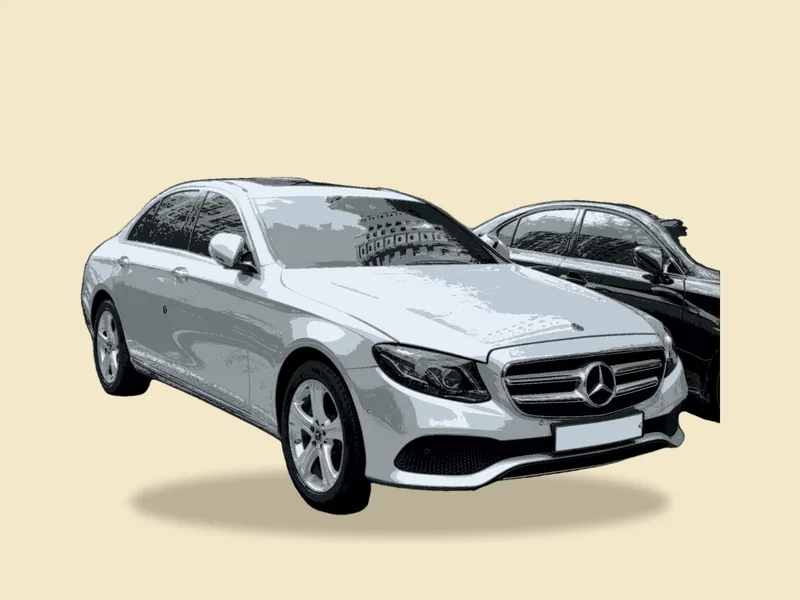
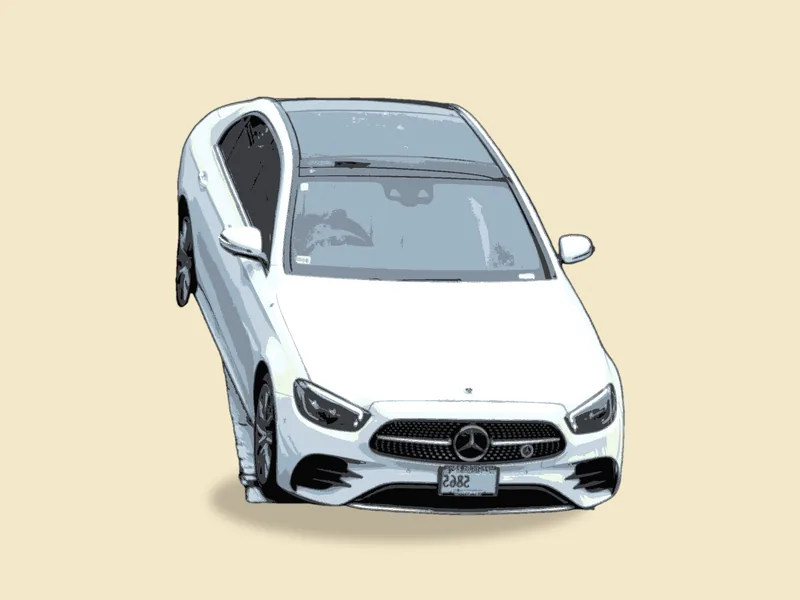
Re-source thirteen cards whose photograph showed more than the car
The illustrations came out wrong because of what was in the photographs, not
how they were processed: a second car merged into the subject, a museum
plinth, a sign on the roof, a bed or a tail running off the frame edge, a
pose unlike every other card. Erosion cannot separate two cars that
genuinely overlap, so each of these needed a better photograph rather than
a constant.

Every replacement shows one car, complete, isolated and facing the way the
track runs, and each was rendered to a scratch directory and looked at
before it was written here. The folder is 3,436,398 bytes across 126 files,
slightly smaller than before.

diff --git a/public/art/CREDITS.md b/public/art/CREDITS.md
@@ -21,12 +21,12 @@ photographers.
 | bmw-m8-competition | BMW M8 Competition | [BMW M8 Competition (F92) Greater Toronto Area, Canada (1).jpg](https://commons.wikimedia.org/wiki/File%3ABMW%20M8%20Competition%20%28F92%29%20Greater%20Toronto%20Area%2C%20Canada%20%281%29.jpg) | OWS Photography | [CC BY 4.0](https://creativecommons.org/licenses/by/4.0) |
 | bmw-x5-m | BMW X5 M | [BMW X5M (F95) Washington DC Metro Area, USA (1).jpg](https://commons.wikimedia.org/wiki/File%3ABMW%20X5M%20%28F95%29%20Washington%20DC%20Metro%20Area%2C%20USA%20%281%29.jpg) | OWS Photography | [CC BY 4.0](https://creativecommons.org/licenses/by/4.0) |
 | bmw-z4-m40i | BMW Z4 M40i | [BMW G29 1X7A1570.jpg](https://commons.wikimedia.org/wiki/File%3ABMW%20G29%201X7A1570.jpg) | Alexander-93 | [CC BY-SA 4.0](https://creativecommons.org/licenses/by-sa/4.0) |
-| bugatti-chiron | Bugatti Chiron | [Bugatti Chiron 2017.jpg](https://commons.wikimedia.org/wiki/File%3ABugatti%20Chiron%202017.jpg) | MrWalkr | [CC BY-SA 4.0](https://creativecommons.org/licenses/by-sa/4.0) |
-| cadillac-ct5-v | Cadillac CT5-V | [2021 Cadillac CT5-V, Front Right 2, 11-21-2021.jpg](https://commons.wikimedia.org/wiki/File%3A2021%20Cadillac%20CT5-V%2C%20Front%20Right%202%2C%2011-21-2021.jpg) | Elise240SX | [CC BY-SA 4.0](https://creativecommons.org/licenses/by-sa/4.0) |
+| bugatti-chiron | Bugatti Chiron | [Bugatti Chiron LC.jpg](https://commons.wikimedia.org/wiki/File%3ABugatti%20Chiron%20LC.jpg) | MrWalkr | [CC BY-SA 4.0](https://creativecommons.org/licenses/by-sa/4.0) |
+| cadillac-ct5-v | Cadillac CT5-V | [25 Cadillac CT5-V Base.jpg](https://commons.wikimedia.org/wiki/File%3A25%20Cadillac%20CT5-V%20Base.jpg) | HJUdall | [CC0](http://creativecommons.org/publicdomain/zero/1.0/deed.en) |
 | cadillac-escalade | Cadillac Escalade | [2021 Cadillac Escalade ESV 4WD Premium Luxury in Satin Steel Metallic, front right.jpg](https://commons.wikimedia.org/wiki/File%3A2021%20Cadillac%20Escalade%20ESV%204WD%20Premium%20Luxury%20in%20Satin%20Steel%20Metallic%2C%20front%20right.jpg) | Mr | [CC BY-SA 3.0](https://creativecommons.org/licenses/by-sa/3.0) |
 | chevrolet-bolt-ev | Chevrolet Bolt EV | [2019 Chevrolet Bolt EV - April 2019 (2736).jpg](https://commons.wikimedia.org/wiki/File%3A2019%20Chevrolet%20Bolt%20EV%20-%20April%202019%20%282736%29.jpg) | Gregory Varnum | [CC BY-SA 4.0](https://creativecommons.org/licenses/by-sa/4.0) |
 | chevrolet-camaro-ss-1le | Chevrolet Camaro SS 1LE | [19 Chevrolet Camaro SS.jpg](https://commons.wikimedia.org/wiki/File%3A19%20Chevrolet%20Camaro%20SS.jpg) | HJUdall | [CC0](http://creativecommons.org/publicdomain/zero/1.0/deed.en) |
-| chevrolet-corvette-stingray-c8 | Chevrolet Corvette Stingray | [Chevrolet Corvette Stingray C8.jpg](https://commons.wikimedia.org/wiki/File%3AChevrolet%20Corvette%20Stingray%20C8.jpg) | BerlinWilmer | [CC BY 4.0](https://creativecommons.org/licenses/by/4.0) |
+| chevrolet-corvette-stingray-c8 | Chevrolet Corvette Stingray | [2021 Chevrolet Corvette Stingray, front right, 08-30-2026.jpg](https://commons.wikimedia.org/wiki/File%3A2021%20Chevrolet%20Corvette%20Stingray%2C%20front%20right%2C%2008-30-2026.jpg) | MercurySable99 | [CC BY-SA 4.0](https://creativecommons.org/licenses/by-sa/4.0) |
 | chevrolet-corvette-z06-c6 | Chevrolet Corvette Z06 | [2010 Chevrolet Corvette C6 Z06.jpg](https://commons.wikimedia.org/wiki/File%3A2010%20Chevrolet%20Corvette%20C6%20Z06.jpg) | Calreyn88 | [CC BY-SA 4.0](https://creativecommons.org/licenses/by-sa/4.0) |
 | chevrolet-corvette-zr1-c7 | Chevrolet Corvette ZR1 (C7) | [2019 Chevrolet Corvette C7 ZR1 2.jpg](https://commons.wikimedia.org/wiki/File%3A2019%20Chevrolet%20Corvette%20C7%20ZR1%202.jpg) | Calreyn88 | [CC BY-SA 4.0](https://creativecommons.org/licenses/by-sa/4.0) |
 | chevrolet-corvette-zr1-c8 | Chevrolet Corvette ZR1 | [2025 Chevrolet C8 Corvette ZR1.jpg](https://commons.wikimedia.org/wiki/File%3A2025%20Chevrolet%20C8%20Corvette%20ZR1.jpg) | Oleg Yunakov | [CC BY-SA 4.0](https://creativecommons.org/licenses/by-sa/4.0) |
@@ -50,9 +50,9 @@ photographers.
 | ford-bronco-wildtrak | Ford Bronco Wildtrak | [2022 Ford Bronco Wildtrak, front 3.11.23.jpg](https://commons.wikimedia.org/wiki/File%3A2022%20Ford%20Bronco%20Wildtrak%2C%20front%203.11.23.jpg) | Kevauto | [CC BY-SA 4.0](https://creativecommons.org/licenses/by-sa/4.0) |
 | ford-f-150-lightning | Ford F-150 Lightning | [2022 Ford F-150 Lightning.jpg](https://commons.wikimedia.org/wiki/File%3A2022%20Ford%20F-150%20Lightning.jpg) | Calreyn88 | [CC BY-SA 4.0](https://creativecommons.org/licenses/by-sa/4.0) |
 | ford-f-150-raptor | Ford F-150 Raptor | [2021 Ford F-150 Raptor, front.jpg](https://commons.wikimedia.org/wiki/File%3A2021%20Ford%20F-150%20Raptor%2C%20front.jpg) | Kevauto | [CC BY-SA 4.0](https://creativecommons.org/licenses/by-sa/4.0) |
-| ford-f-150-raptor-r | Ford F-150 Raptor R | [23 Ford F-150 Raptor R (cropped).jpg](https://commons.wikimedia.org/wiki/File%3A23%20Ford%20F-150%20Raptor%20R%20%28cropped%29.jpg) | HJUdall | [CC0](http://creativecommons.org/publicdomain/zero/1.0/deed.en) |
+| ford-f-150-raptor-r | Ford F-150 Raptor R | [23 Ford F-150 Raptor R.jpg](https://commons.wikimedia.org/wiki/File%3A23%20Ford%20F-150%20Raptor%20R.jpg) | HJUdall | [CC0](http://creativecommons.org/publicdomain/zero/1.0/deed.en) |
 | ford-f-150-xlt | Ford F-150 XLT | [Ford F-150 V8 XLT 2021.jpg](https://commons.wikimedia.org/wiki/File%3AFord%20F-150%20V8%20XLT%202021.jpg) | RL GNZLZ | [CC BY-SA 4.0](https://creativecommons.org/licenses/by-sa/4.0) |
-| ford-mustang-1965-six | Ford Mustang 200 Six (1965) | [1965 Ford Mustang 2D Hardtop Front.jpg](https://commons.wikimedia.org/wiki/File%3A1965%20Ford%20Mustang%202D%20Hardtop%20Front.jpg) | Kroelleboelle | [CC BY-SA 3.0](https://creativecommons.org/licenses/by-sa/3.0) |
+| ford-mustang-1965-six | Ford Mustang 200 Six (1965) | [1965 Ford Mustang Hardtop (14517078762).jpg](https://commons.wikimedia.org/wiki/File%3A1965%20Ford%20Mustang%20Hardtop%20%2814517078762%29.jpg) | Sicnag | [CC BY 2.0](https://creativecommons.org/licenses/by/2.0) |
 | ford-mustang-289 | Ford Mustang 289 | [1967 Ford Mustang hardtop, red, Golden Super Cruise 2026-07-04.jpg](https://commons.wikimedia.org/wiki/File%3A1967%20Ford%20Mustang%20hardtop%2C%20red%2C%20Golden%20Super%20Cruise%202026-07-04.jpg) | Xnatedawgx | [CC BY-SA 4.0](https://creativecommons.org/licenses/by-sa/4.0) |
 | ford-mustang-gt | Ford Mustang GT | [Ford Mustang Fastback 5.0 GT (54185175396).jpg](https://commons.wikimedia.org/wiki/File%3AFord%20Mustang%20Fastback%205.0%20GT%20%2854185175396%29.jpg) | Alexandre Prevot from Nancy, France | [CC BY-SA 2.0](https://creativecommons.org/licenses/by-sa/2.0) |
 | ford-mustang-mach-1 | Ford Mustang Mach 1 (2021) | [Ford Mustang VI Mach I Auto Zuerich 2021 IMG 0117.jpg](https://commons.wikimedia.org/wiki/File%3AFord%20Mustang%20VI%20Mach%20I%20Auto%20Zuerich%202021%20IMG%200117.jpg) | Alexander Migl | [CC BY-SA 4.0](https://creativecommons.org/licenses/by-sa/4.0) |
@@ -61,7 +61,7 @@ photographers.
 | ford-ranger-raptor | Ford Ranger Raptor | [Ford Ranger P375 2.0 Bi-Turbo Raptor Blue Lightning.jpg](https://commons.wikimedia.org/wiki/File%3AFord%20Ranger%20P375%202.0%20Bi-Turbo%20Raptor%20Blue%20Lightning.jpg) | Ethan Llamas | [CC BY-SA 4.0](https://creativecommons.org/licenses/by-sa/4.0) |
 | ford-shelby-gt500-2020 | Ford Shelby GT500 (2020) | [2021 Ford Mustang Shelby GT500 (S550) Front (Bahrain).jpg](https://commons.wikimedia.org/wiki/File%3A2021%20Ford%20Mustang%20Shelby%20GT500%20%28S550%29%20Front%20%28Bahrain%29.jpg) | Mohammed Hamad | [CC BY-SA 4.0](https://creativecommons.org/licenses/by-sa/4.0) |
 | gmc-hummer-ev-pickup | GMC Hummer EV Pickup | [GMC Hummer EV Pickup Edition 1 Interstellar White.jpg](https://commons.wikimedia.org/wiki/File%3AGMC%20Hummer%20EV%20Pickup%20Edition%201%20Interstellar%20White.jpg) | Ethan Llamas | [CC BY-SA 4.0](https://creativecommons.org/licenses/by-sa/4.0) |
-| honda-civic-si | Honda Civic Si | [2022 Honda Civic Si in Blazing Orange Pearl, Front Right, 12-19-2021.jpg](https://commons.wikimedia.org/wiki/File%3A2022%20Honda%20Civic%20Si%20in%20Blazing%20Orange%20Pearl%2C%20Front%20Right%2C%2012-19-2021.jpg) | Elise240SX | [CC BY-SA 4.0](https://creativecommons.org/licenses/by-sa/4.0) |
+| honda-civic-si | Honda Civic Si | [25 Honda Civic Si.jpg](https://commons.wikimedia.org/wiki/File%3A25%20Honda%20Civic%20Si.jpg) | HJUdall | [CC0](http://creativecommons.org/publicdomain/zero/1.0/deed.en) |
 | honda-civic-type-r-fl5 | Honda Civic Type R (FL5) | [HONDA CIVIC TYPE R FL5 China.jpg](https://commons.wikimedia.org/wiki/File%3AHONDA%20CIVIC%20TYPE%20R%20FL5%20China.jpg) | Dinkun Chen | [CC BY-SA 4.0](https://creativecommons.org/licenses/by-sa/4.0) |
 | honda-s2000 | Honda S2000 | [Honda S2000 AP1 przód.JPG](https://commons.wikimedia.org/wiki/File%3AHonda%20S2000%20AP1%20prz%C3%B3d.JPG) | Lukasz19930915 | [CC BY-SA 3.0](https://creativecommons.org/licenses/by-sa/3.0) |
 | hyundai-ioniq-5-n | Hyundai Ioniq 5 N | [Hyundai Ioniq 5 N IMG 9406.jpg](https://commons.wikimedia.org/wiki/File%3AHyundai%20Ioniq%205%20N%20IMG%209406.jpg) | Alexander-93 | [CC BY-SA 4.0](https://creativecommons.org/licenses/by-sa/4.0) |
@@ -85,19 +85,19 @@ photographers.
 | mazda-mx-5-miata | Mazda MX-5 Miata | [Mazda MX-5 (ND), Bangladesh. (34324761505).jpg](https://commons.wikimedia.org/wiki/File%3AMazda%20MX-5%20%28ND%29%2C%20Bangladesh.%20%2834324761505%29.jpg) | Shadman Samee from Dhaka, Bangladesh | [CC BY-SA 2.0](https://creativecommons.org/licenses/by-sa/2.0) |
 | mazda-mx-5-miata-na | Mazda MX-5 Miata (NA) | [1990-1991 Mazda MX-5 (NA) Limited Edition convertible 01.jpg](https://commons.wikimedia.org/wiki/File%3A1990-1991%20Mazda%20MX-5%20%28NA%29%20Limited%20Edition%20convertible%2001.jpg) | Original uploader was Mightyrollaman at en | Public domain |
 | mazda-mx-5-miata-nb | Mazda MX-5 Miata (NB) | [2001 Mazda MX-5 Miata, front left, 05-24-2026.jpg](https://commons.wikimedia.org/wiki/File%3A2001%20Mazda%20MX-5%20Miata%2C%20front%20left%2C%2005-24-2026.jpg) | MercurySable99 | [CC BY-SA 4.0](https://creativecommons.org/licenses/by-sa/4.0) |
-| mazda-rx-7 | Mazda RX-7 | [Mazda RX-7 FD3S, front right, 05-05-2024.jpg](https://commons.wikimedia.org/wiki/File%3AMazda%20RX-7%20FD3S%2C%20front%20right%2C%2005-05-2024.jpg) | Ethan Llamas | [CC BY-SA 4.0](https://creativecommons.org/licenses/by-sa/4.0) |
+| mazda-rx-7 | Mazda RX-7 | [FD Mazda RX-7.jpg](https://commons.wikimedia.org/wiki/File%3AFD%20Mazda%20RX-7.jpg) | Aaron Lai | [CC BY 2.0](https://creativecommons.org/licenses/by/2.0) |
 | mclaren-765lt | McLaren 765LT | [2020 McLaren 765LT 4.0.jpg](https://commons.wikimedia.org/wiki/File%3A2020%20McLaren%20765LT%204.0.jpg) | Liam Walker | [CC BY-SA 4.0](https://creativecommons.org/licenses/by-sa/4.0) |
 | mercedes-amg-c-63-s | Mercedes-AMG C 63 S (W205) | [MERCEDES-AMG C 63 (W205) (3).jpg](https://commons.wikimedia.org/wiki/File%3AMERCEDES-AMG%20C%2063%20%28W205%29%20%283%29.jpg) | Dinkun Chen | [CC BY-SA 4.0](https://creativecommons.org/licenses/by-sa/4.0) |
 | mercedes-amg-g-63 | Mercedes-AMG G 63 | [MERCEDES-AMG G 63 (W463) China (3).jpg](https://commons.wikimedia.org/wiki/File%3AMERCEDES-AMG%20G%2063%20%28W463%29%20China%20%283%29.jpg) | Dinkun Chen | [CC BY-SA 4.0](https://creativecommons.org/licenses/by-sa/4.0) |
 | mercedes-amg-gt-r | Mercedes-AMG GT R | [Mercedes-AMG GT R Coupé (C190, 2021) (52229185921).jpg](https://commons.wikimedia.org/wiki/File%3AMercedes-AMG%20GT%20R%20Coup%C3%A9%20%28C190%2C%202021%29%20%2852229185921%29.jpg) | Charles from Port Chester, New York | [CC BY 2.0](https://creativecommons.org/licenses/by/2.0) |
 | mercedes-benz-c-300 | Mercedes-Benz C 300 | [Mercedes-Benz W206 C 300 4MATIC AMG Line Polar White (6).jpg](https://commons.wikimedia.org/wiki/File%3AMercedes-Benz%20W206%20C%20300%204MATIC%20AMG%20Line%20Polar%20White%20%286%29.jpg) | Damian B Oh | [CC BY-SA 4.0](https://creativecommons.org/licenses/by-sa/4.0) |
-| mercedes-benz-e-300 | Mercedes-Benz E 300 | [00 Mercedes-Benz W213 (2016-2020) e200av.jpg](https://commons.wikimedia.org/wiki/File%3A00%20Mercedes-Benz%20W213%20%282016-2020%29%20e200av.jpg) | Benespit | [CC BY-SA 4.0](https://creativecommons.org/licenses/by-sa/4.0) |
+| mercedes-benz-e-300 | Mercedes-Benz E 300 | [Mercedes-Benz E300 (W213) Washington DC Metro Area, USA (3).jpg](https://commons.wikimedia.org/wiki/File%3AMercedes-Benz%20E300%20%28W213%29%20Washington%20DC%20Metro%20Area%2C%20USA%20%283%29.jpg) | OWS Photography | [CC BY 4.0](https://creativecommons.org/licenses/by/4.0) |
 | mitsubishi-lancer-evolution-ix | Mitsubishi Lancer Evolution IX | [Mitsubishi Lancer Evolution IX (28469868127).jpg](https://commons.wikimedia.org/wiki/File%3AMitsubishi%20Lancer%20Evolution%20IX%20%2828469868127%29.jpg) | FotoSleuth | [CC BY 2.0](https://creativecommons.org/licenses/by/2.0) |
 | nissan-240sx-s14 | Nissan 240SX (S14) | [1996 Nissan 240SX S14.jpg](https://commons.wikimedia.org/wiki/File%3A1996%20Nissan%20240SX%20S14.jpg) | Calreyn88 | [CC BY-SA 4.0](https://creativecommons.org/licenses/by-sa/4.0) |
 | nissan-350z | Nissan 350Z | [Nissan 350Z (Z33) Washington DC Metro Area, USA.jpg](https://commons.wikimedia.org/wiki/File%3ANissan%20350Z%20%28Z33%29%20Washington%20DC%20Metro%20Area%2C%20USA.jpg) | OWS Photography | [CC BY 4.0](https://creativecommons.org/licenses/by/4.0) |
 | nissan-altima | Nissan Altima 2.5 | [2019 Nissan Altima S.jpg](https://commons.wikimedia.org/wiki/File%3A2019%20Nissan%20Altima%20S.jpg) | WNYY98 | [CC BY-SA 4.0](https://creativecommons.org/licenses/by-sa/4.0) |
 | nissan-gt-r | Nissan GT-R | [Nissan GT-R (R35) Washington DC Metro Area, USA.jpg](https://commons.wikimedia.org/wiki/File%3ANissan%20GT-R%20%28R35%29%20Washington%20DC%20Metro%20Area%2C%20USA.jpg) | OWS Photography | [CC BY 4.0](https://creativecommons.org/licenses/by/4.0) |
-| nissan-gt-r-nismo | Nissan GT-R NISMO | [Nissan GT-R NISMO (4BA-R35) front.jpg](https://commons.wikimedia.org/wiki/File%3ANissan%20GT-R%20NISMO%20%284BA-R35%29%20front.jpg) | Tokumeigakarinoaoshima | [CC BY-SA 4.0](https://creativecommons.org/licenses/by-sa/4.0) |
+| nissan-gt-r-nismo | Nissan GT-R NISMO | [Nissan GT-R Nismo (R35), 2022, front.jpg](https://commons.wikimedia.org/wiki/File%3ANissan%20GT-R%20Nismo%20%28R35%29%2C%202022%2C%20front.jpg) | Kazyakuruma | [CC BY-SA 4.0](https://creativecommons.org/licenses/by-sa/4.0) |
 | nissan-leaf | Nissan Leaf | [Nissan Leaf 2018 (31874639158) (cropped).jpg](https://commons.wikimedia.org/wiki/File%3ANissan%20Leaf%202018%20%2831874639158%29%20%28cropped%29.jpg) | Kārlis Dambrāns from Latvia | [CC BY 2.0](https://creativecommons.org/licenses/by/2.0) |
 | nissan-skyline-gt-r-r34 | Nissan Skyline GT-R | [Nissan Skyline GT-R R34, 09-21-2025.jpg](https://commons.wikimedia.org/wiki/File%3ANissan%20Skyline%20GT-R%20R34%2C%2009-21-2025.jpg) | 2000chevymontecarlo | [CC BY-SA 4.0](https://creativecommons.org/licenses/by-sa/4.0) |
 | plymouth-hemi-cuda | Plymouth Hemi 'Cuda | [1970 Plymouth Hemi 'Cuda (31006971013).jpg](https://commons.wikimedia.org/wiki/File%3A1970%20Plymouth%20Hemi%20%27Cuda%20%2831006971013%29.jpg) | Greg Gjerdingen from Willmar, USA | [CC BY 2.0](https://creativecommons.org/licenses/by/2.0) |
@@ -105,8 +105,8 @@ photographers.
 | porsche-718-cayman-gts | Porsche 718 Cayman GTS 4.0 | [2022 Porsche 718 Cayman GTS (24806).jpg](https://commons.wikimedia.org/wiki/File%3A2022%20Porsche%20718%20Cayman%20GTS%20%2824806%29.jpg) | Calreyn88 | [CC BY-SA 4.0](https://creativecommons.org/licenses/by-sa/4.0) |
 | porsche-911-carrera-s | Porsche 911 Carrera S | [Porsche 992 Carrera S coupe IMG 5832.jpg](https://commons.wikimedia.org/wiki/File%3APorsche%20992%20Carrera%20S%20coupe%20IMG%205832.jpg) | Alexander Migl | [CC BY-SA 4.0](https://creativecommons.org/licenses/by-sa/4.0) |
 | porsche-911-gt3-992 | Porsche 911 GT3 | [Porsche 992 GT3 1X7A0323.jpg](https://commons.wikimedia.org/wiki/File%3APorsche%20992%20GT3%201X7A0323.jpg) | Alexander Migl | [CC BY-SA 4.0](https://creativecommons.org/licenses/by-sa/4.0) |
-| porsche-911-turbo-s-992 | Porsche 911 Turbo S (992) | [2020 Porsche 911 992 Turbo S.jpg](https://commons.wikimedia.org/wiki/File%3A2020%20Porsche%20911%20992%20Turbo%20S.jpg) | Calreyn88 | [CC BY-SA 4.0](https://creativecommons.org/licenses/by-sa/4.0) |
-| porsche-914 | Porsche 914 (1.7) | [Porsche 914, Pau 2015 DSCF1925.jpg](https://commons.wikimedia.org/wiki/File%3APorsche%20914%2C%20Pau%202015%20DSCF1925.jpg) | Handelsgeselschaft | [CC BY-SA 4.0](https://creativecommons.org/licenses/by-sa/4.0) |
+| porsche-911-turbo-s-992 | Porsche 911 Turbo S (992) | [Porsche 911 Turbo S (992) Greater Toronto Area, Canada.jpg](https://commons.wikimedia.org/wiki/File%3APorsche%20911%20Turbo%20S%20%28992%29%20Greater%20Toronto%20Area%2C%20Canada.jpg) | OWS Photography | [CC BY 4.0](https://creativecommons.org/licenses/by/4.0) |
+| porsche-914 | Porsche 914 (1.7) | [2007-06-17 VW-Porsche 914 (kl).JPG](https://commons.wikimedia.org/wiki/File%3A2007-06-17%20VW-Porsche%20914%20%28kl%29.JPG) | Spurzem | [CC BY-SA 2.0 de](https://creativecommons.org/licenses/by-sa/2.0/de/deed.en) |
 | porsche-boxster-s-987 | Porsche Boxster S (987) | [2008 Porsche 987 Boxster (15225082412).jpg](https://commons.wikimedia.org/wiki/File%3A2008%20Porsche%20987%20Boxster%20%2815225082412%29.jpg) | free photos & art | [CC BY 2.0](https://creativecommons.org/licenses/by/2.0) |
 | porsche-taycan-turbo-s | Porsche Taycan Turbo S | [2020 Porsche Taycan Turbo S (21742).jpg](https://commons.wikimedia.org/wiki/File%3A2020%20Porsche%20Taycan%20Turbo%20S%20%2821742%29.jpg) | Calreyn88 | [CC BY-SA 4.0](https://creativecommons.org/licenses/by-sa/4.0) |
 | ram-1500-trx | Ram 1500 TRX | [Ram 1500 TRX (13803).jpg](https://commons.wikimedia.org/wiki/File%3ARam%201500%20TRX%20%2813803%29.jpg) | Calreyn88 | [CC BY-SA 4.0](https://creativecommons.org/licenses/by-sa/4.0) |
@@ -116,10 +116,10 @@ photographers.
 | rolls-royce-phantom | Rolls-Royce Phantom | [Rolls-Royce Phantom, Geneva International Motor Show 2018, Le Grand-Saconnex (1X7A1220).jpg](https://commons.wikimedia.org/wiki/File%3ARolls-Royce%20Phantom%2C%20Geneva%20International%20Motor%20Show%202018%2C%20Le%20Grand-Saconnex%20%281X7A1220%29.jpg) | Matti Blume | [CC BY-SA 4.0](https://creativecommons.org/licenses/by-sa/4.0) |
 | rolls-royce-wraith | Rolls-Royce Wraith | [Rolls-Royce Wraith (II) Washington DC Metro Area, USA (1.2).jpg](https://commons.wikimedia.org/wiki/File%3ARolls-Royce%20Wraith%20%28II%29%20Washington%20DC%20Metro%20Area%2C%20USA%20%281.2%29.jpg) | OWS Photography | [CC BY 4.0](https://creativecommons.org/licenses/by/4.0) |
 | subaru-wrx-sti | Subaru WRX STI | [Subaru WRX STI - Blue.jpg](https://commons.wikimedia.org/wiki/File%3ASubaru%20WRX%20STI%20-%20Blue.jpg) | Motor Verso | [CC BY 2.0](https://creativecommons.org/licenses/by/2.0) |
-| tesla-cybertruck-cyberbeast | Tesla Cybertruck Cyberbeast | [2024 Tesla Cybertruck Foundation Series IMG 0634.jpg](https://commons.wikimedia.org/wiki/File%3A2024%20Tesla%20Cybertruck%20Foundation%20Series%20IMG%200634.jpg) | Alexander-93 | [CC BY-SA 4.0](https://creativecommons.org/licenses/by-sa/4.0) |
+| tesla-cybertruck-cyberbeast | Tesla Cybertruck Cyberbeast | [Tesla Cybertruck Washington DC Metro Area, USA (5).jpg](https://commons.wikimedia.org/wiki/File%3ATesla%20Cybertruck%20Washington%20DC%20Metro%20Area%2C%20USA%20%285%29.jpg) | OWS Photography | [CC BY 4.0](https://creativecommons.org/licenses/by/4.0) |
 | tesla-model-3-performance | Tesla Model 3 Performance | [2024 Tesla Model 3 Performance front view 03.png](https://commons.wikimedia.org/wiki/File%3A2024%20Tesla%20Model%203%20Performance%20front%20view%2003.png) | iMoD Official | [CC BY 3.0](https://creativecommons.org/licenses/by/3.0) |
 | tesla-model-s-plaid | Tesla Model S Plaid | [22 Tesla Model S Plaid.jpg](https://commons.wikimedia.org/wiki/File%3A22%20Tesla%20Model%20S%20Plaid.jpg) | HJUdall | [CC0](http://creativecommons.org/publicdomain/zero/1.0/deed.en) |
-| tesla-model-x-plaid | Tesla Model X Plaid | [23 Tesla Model X Plaid.jpg](https://commons.wikimedia.org/wiki/File%3A23%20Tesla%20Model%20X%20Plaid.jpg) | HJUdall | [CC0](http://creativecommons.org/publicdomain/zero/1.0/deed.en) |
+| tesla-model-x-plaid | Tesla Model X Plaid | [Tesla Model X Plaid Shadow Grey 01.jpg](https://commons.wikimedia.org/wiki/File%3ATesla%20Model%20X%20Plaid%20Shadow%20Grey%2001.jpg) | Ethan Llamas | [CC BY-SA 4.0](https://creativecommons.org/licenses/by-sa/4.0) |
 | tesla-model-y | Tesla Model Y | [Tesla Model Y 1X7A6211.jpg](https://commons.wikimedia.org/wiki/File%3ATesla%20Model%20Y%201X7A6211.jpg) | Alexander Migl | [CC BY-SA 4.0](https://creativecommons.org/licenses/by-sa/4.0) |
 | toyota-4runner-sr5 | Toyota 4Runner SR5 | [23 Toyota 4Runner SR5.jpg](https://commons.wikimedia.org/wiki/File%3A23%20Toyota%204Runner%20SR5.jpg) | HJUdall | [CC0](http://creativecommons.org/publicdomain/zero/1.0/deed.en) |
 | toyota-celica-gt-s | Toyota Celica GT-S (2000) | [Toyota CELICA 1.8 SS-I (ST230) front.JPG](https://commons.wikimedia.org/wiki/File%3AToyota%20CELICA%201.8%20SS-I%20%28ST230%29%20front.JPG) | Tokumeigakarinoaoshima | [CC0](http://creativecommons.org/publicdomain/zero/1.0/deed.en) |
